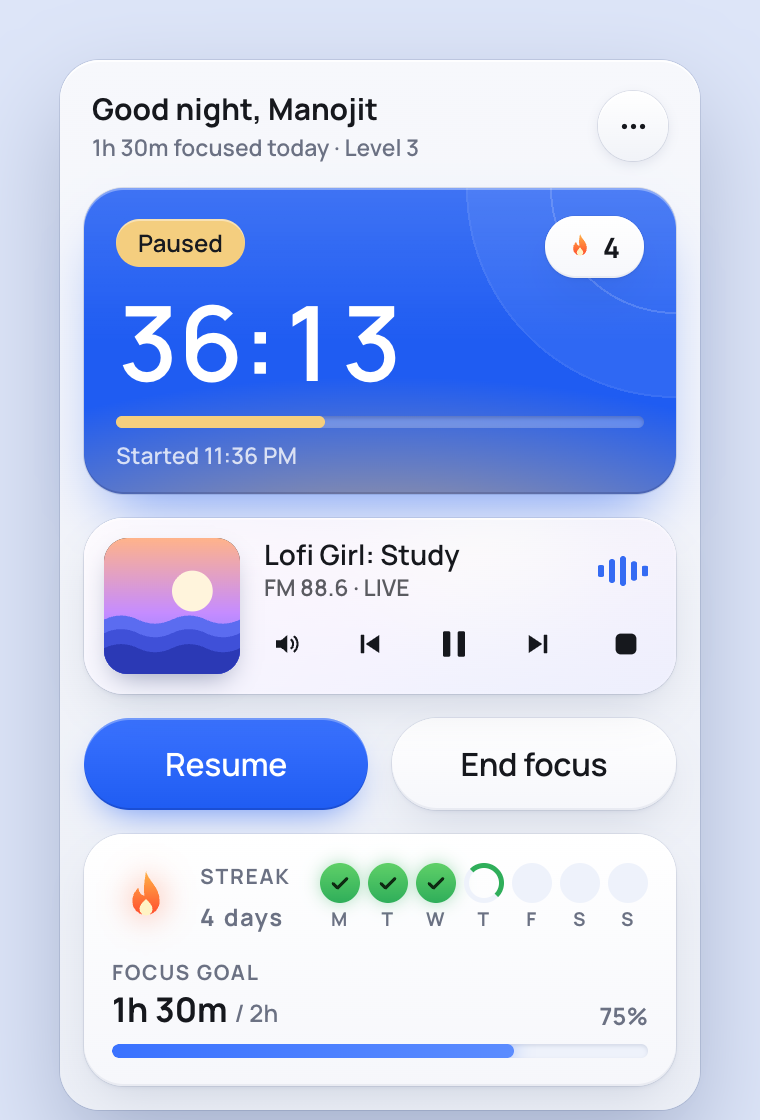
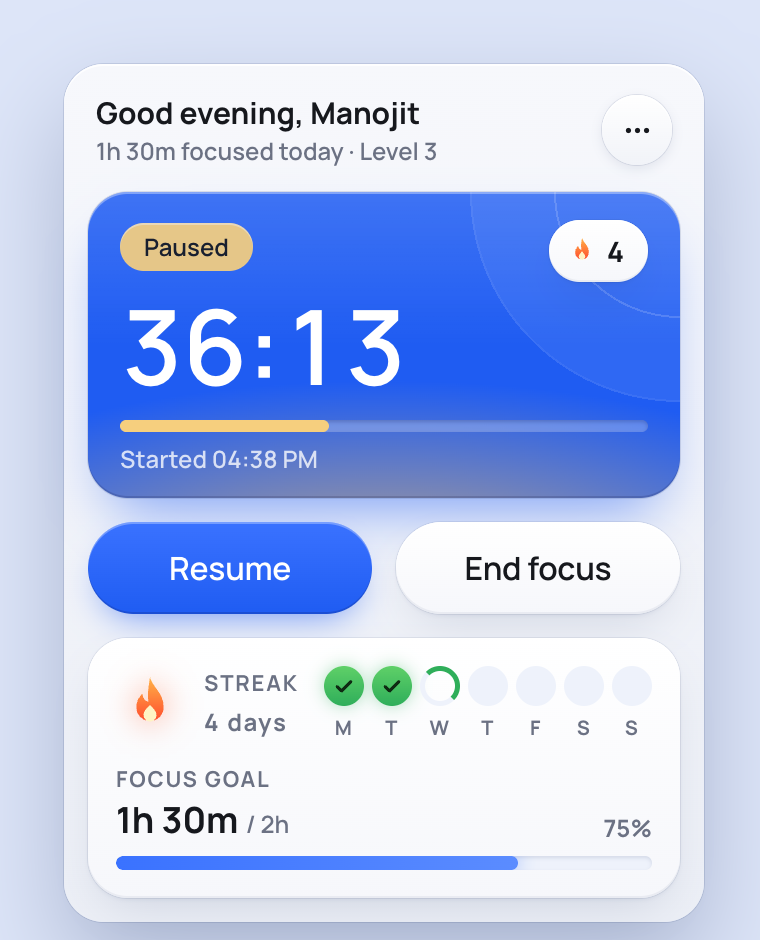
Docs: Tide no longer has a radio

diff --git a/docs/promo/shot.html b/docs/promo/shot.html
@@ -1,16 +1,10 @@
 <!doctype html>
-<!-- Screenshot helper: shows one page (?src=, relative to this folder) at ?w= x ?h=, with an original cover in the radio
-     instead of a station's artwork. Serve the project root and screenshot http://127.0.0.1:8765/docs/promo/shot.html?... -->
+<!-- Screenshot helper: shows one page (?src=, relative to this folder) at ?w= x ?h=. Serve the project root and screenshot http://127.0.0.1:8765/docs/promo/shot.html?... -->
 <meta charset="utf-8">
 <style>html,body{margin:0;overflow:hidden;background:transparent}iframe{border:0;display:block}</style>
 <iframe id="f"></iframe>
-<script src="cover.js"></script>
 <script>
 const q = new URLSearchParams(location.search), f = document.getElementById('f');
 f.style.width = (q.get('w') || 380) + 'px'; f.style.height = (q.get('h') || 600) + 'px';
 f.src = q.get('src');
-f.onload = () => {
-  const d = f.contentDocument, put = () => d.querySelectorAll('.cover, .bgart').forEach(e => e.style.backgroundImage = `url("${TIDE_COVER}")`);
-  put(); setInterval(put, 100);
-};
 </script>

diff --git a/CONTRIBUTING.md b/CONTRIBUTING.md
@@ -4,12 +4,12 @@
 
 | Path | What it is |
 |---|---|
-| `src/panel.html` | The menu bar panel: timer, radio, today's stats, and the end-of-session questions. Markup, styles and script in one file. |
+| `src/panel.html` | The menu bar panel: timer, today's stats, and the end-of-session questions. Markup, styles and script in one file. |
 | `src/dashboard.html` | The dashboard window: Stats, Sessions and Settings tabs. |
 | `src/game.js` | The game rules (daily and category goals, streak, levels, badges and their coin pictures), shared by the panel and the dashboard. The app adds it to both pages; in a browser preview they load it themselves. |
 | `src/island.html` | **The Island**: a card that drops from the notch at the top of the screen, blue in light mode and near-black in dark mode. It only displays what the panel sends and reports button presses back. |
 | `src/tide.css` | The shared design tokens and `t-` part styles used by all three pages. The preview pages link it; the app injects it before the page's own style. `build.sh` copies it into the app. |
-| `src/main.swift` | The native app: menu bar item, the panel window, the dashboard window, file storage, YouTube stream lookup, notifications, the global shortcut, open at login, the update check. |
+| `src/main.swift` | The native app: menu bar item, the panel window, the dashboard window, file storage, notifications, the global shortcut, open at login, the update check. |
 | `src/AppIcon.icns` | The app icon, made by `docs/icon/make-icns.sh` from `docs/icon/icon.html`. |
 | `build.sh` | Builds `build.noindex/Tide.app`, copying the pages, `game.js` and `tide.css` into it. `--install` copies it to `/Applications` and opens it; `--zip` makes the release zip. |
 | `src/fonts/` | Manrope, the bundled font, and its licence. |
@@ -17,21 +17,20 @@
 
 ## How it fits together
 
-- **The panel** is a borderless window with 20pt rounded corners (an `NSVisualEffectView` masked to the corners, with a `WKWebView` on top; the page paints its own background) placed under the menu bar item. It hides when it loses focus, like a menu, but is never closed, so the timer keeps running and the radio keeps playing.
+- **The panel** is a borderless window with 20pt rounded corners (an `NSVisualEffectView` masked to the corners, with a `WKWebView` on top; the page paints its own background) placed under the menu bar item. It hides when it loses focus, like a menu, but is never closed, so the timer keeps running.
 - **Keeping the hidden page alive:** WebKit suspends pages in hidden windows, which froze the timer. The app sets `inactiveSchedulingPolicy = .none`, holds a `ProcessInfo` activity against App Nap, and calls `tick()` every second as a backstop. Keep all three.
 - **Questions** (block done, break done, the topic, what next) are built by the panel page (`present()`, the `N` object). With the panel open they show in it; when it closes, the app shows the same question in the Island (`notice` message), and the Island's answer comes back through `noticeAction(id, topic)`.
-- **Both pages** are loaded with base URL `https://localhost/`, because YouTube's player refuses file pages. The app injects `window.__NATIVE` and the saved files (`window.__STORE`) before the page's script runs; the dashboard also gets `window.__SETTINGS` and `window.__TAB`.
+- **Both pages** are loaded with base URL `https://localhost/`, so the pages' storage stays in one place. The app injects `window.__NATIVE` and the saved files (`window.__STORE`) before the page's script runs; the dashboard also gets `window.__SETTINGS` and `window.__TAB`.
 - **Page to app:** `window.webkit.messageHandlers.native.postMessage({type, ...})`. Types:
   - `store`: save a key to disk. Log saves are mirrored to the other page via `__syncLogs`.
   - `resize` (panel or Island height), `showPanel`, `hidePanel`, `clock` (menu bar text), `notice` (show or clear the Island), `notify`.
-  - `resolve`: find a YouTube stream ID; answered with `ytResolved(i, id)`.
   - `openDashboard` (with a `tab`), `quit`, `copy`, `csv`.
   - Dashboard settings: `setLaunchAtLogin`, `chooseLogFolder`, `revealLogFolder`, `checkUpdates`; answered with `settingsChanged({...})`.
-- **App to page:** `start()` (the ⌃⌥Space shortcut), `tick()`, `panelVisible()`, `noticeAction()`, `ytResolved()`, `__syncLogs()`, `settingsChanged()`, `showTab()`.
+- **App to page:** `start()` (the ⌃⌥Space shortcut), `tick()`, `panelVisible()`, `noticeAction()`, `__syncLogs()`, `settingsChanged()`, `showTab()`.
 
 ## Timer rules
 
-- Look: light mode is a soft blue-grey; the clock card is bright blue (`#1f5cf2`) with rings in the corner; the state shows in its pill, progress line and a soft glow (none when ready, light blue focusing, amber paused, green on a break). Dark mode is near-black (`#161616`), the clock card black with a soft glow of the state's colour. The radio is a compact card: the station's cover art (its YouTube thumbnail) in a square on the left, the station name (click for the list) and controls beside it, with a blurred copy of the cover tinting the card. Volume is a button that slides a short slider open beside it, pushing the other controls right (scrolling over it works too). Cards use 20px corners, the same as the panel. The YouTube player only plays the sound: it stays a normal size but hidden, since YouTube won't play in a tiny player. Every gap between cards is 12px. Both use the same bevel: a lit top edge, a soft lower edge and a shadow below each card. All text uses Manrope (`--font`), except the log folder path (system monospace).
+- Look: light mode is a soft blue-grey; the clock card is bright blue (`#1f5cf2`) with rings in the corner; the state shows in its pill, progress line and a soft glow (none when ready, light blue focusing, amber paused, green on a break). Dark mode is near-black (`#161616`), the clock card black with a soft glow of the state's colour. Cards use 20px corners, the same as the panel. Every gap between cards is 12px. Both use the same bevel: a lit top edge, a soft lower edge and a shadow below each card. All text uses Manrope (`--font`), except the log folder path (system monospace).
 - Game (`game.js`), all worked out from the log: the **streak** counts days that reach the daily goal (`goalMin`, 120 by default); vacation days (`vacation` date ranges) are skipped, and today can still be closed. **Levels**: 1 XP per focused minute, level n needs 150·(n−1)² XP. **Badges**: focus hours (10 to 1,000), best streak (7 to 365) and specials; a new one, a new level or a reached goal shows in the Island once nothing else is asked (`checkUnlocks`, remembered in the state as `badgesSeen`, `levelSeen`, `goalSeen`).
 - **Categories** are in `tide.game` as `categories` (`{id, name, color, goalMin, per}`, where `per` is `'day'` or `'week'`) and `topicCats` (`{topicKey: [categoryId]}`, keyed by `Game.topicKey`). `Game.categoryProgress(logs, g, now)` counts a session toward every category its topic belongs to, by start time: daily goals count today, weekly goals count from Monday. `Game.PALETTE` (in `game.js`) holds the shared 10 colours for topics and categories. Category chips appear only in the panel's end-of-session question; answering from the Island saves the topic but leaves `topicCats` unchanged.
 - macOS notifications (the idle nudge, update notices) stay quiet from 10 PM to 5 AM (`quietHours`); a manual Check for Updates still answers.
@@ -44,16 +43,6 @@
 - Ending a Pomodoro early isn't logged; count-up under a minute isn't logged; breaks aren't logged. A finished break asks *Start Focus / +5 min*.
 - A session running when the app quits comes back paused, counting time up to the last save.
 - After 30 minutes idle (no timer, no break, no open question) the panel sends a `nudge`; the app posts a notification in the `NUDGE` category, whose **Let's start** action calls `startCountUp()`. It repeats every 30 minutes while idle.
-
-## Stations
-
-`BUILT_IN` (in `panel.html`) lists each built-in station with its channel, the words from its stream title and a last known video ID. At launch the app reads each channel's `/streams` page, finds the live stream whose title matches, and saves the current ID (`S.ytIds`, keyed by the built-in's original name). If a stream fails, it looks it up again and retries once. The player is created idle at launch, because a freshly created YouTube player starts muted.
-
-`tide.stations` (version 2) is one ordered list of built-in items (`builtIn: '<original name>'`, which can be renamed) and custom items (`kind: 'video' | 'playlist' | 'channel'`). Only the dashboard writes it. Both pages read it through `readStations()`, which upgrades version 1 (`{custom, builtIn}`). `readStations()` is copied in both files and must stay the same, and `BUILT_IN_NAMES` in the dashboard must match `BUILT_IN`. The list is never empty. The panel's station keys are `b:<name>` for built-ins and `c:<id>` for custom ones.
-
-Playing: a video loops when it ends. A playlist uses `loadPlaylist` and `setLoop(true)`. A channel is stored with its `UU…` uploads playlist (`'UU' + channelId.slice(2)`) and plays like a playlist, newest first. Adding a channel looks it up with `findChannel` in `main.swift`, which reads `itemprop="identifier"` and `og:title` from the channel page; only the dashboard can ask for it.
-
-Back and forward skip songs in a playlist or channel, and change station otherwise. You leave a playlist through the station list.
 
 ## Design
 
@@ -81,7 +70,7 @@ Back and forward skip songs in a playlist or channel, and change station otherwi
 - Corners use `--radius-sm` 6, `--radius-md` 10, `--radius-card` 14, `--radius-lg` 16, `--radius-xl` 20, `--radius-2xl` 24, `--radius-pill` 99 and `--radius-round` 50%.
 - Shared parts: `t-title`, `t-heading`, `t-body`, `t-small`, `t-caption`, `t-muted`; `t-card` and `t-panel-card`; `t-btn` and `t-primary`; `t-field`; `t-chip`; `t-switch`; `t-seg`; `t-toast`.
 - Use a token or a shared part; don't type sizes.
-- Page-local on purpose: the panel's 20px cards and 12px card gaps (and its 16px station list), the dashboard's 14px cards, the Island's 24px card and blue (`#1f5cf2`) / near-black (`#1c1c1c`) colours, and the panel's compact category chips. The dashboard's Settings chips are sized for the wide page; the 320px panel keeps its smaller chips.
+- Page-local on purpose: the panel's 20px cards and 12px card gaps, the dashboard's 14px cards, the Island's 24px card and blue (`#1f5cf2`) / near-black (`#1c1c1c`) colours, and the panel's compact category chips. The dashboard's Settings chips are sized for the wide page; the 320px panel keeps its smaller chips.
 - Manrope is bundled (`src/fonts/Manrope.ttf`, SIL Open Font License in `src/fonts/OFL.txt`, shipped with the app as `Manrope-OFL.txt`). Pages are loaded from a web address and can't read files, so the app adds the font as data at page start (`fontScript` in `main.swift`); the pages' own `@font-face` ("Manrope Preview") is only for the browser preview. Keep the panel short: it should fit under the menu bar on a small laptop screen.
 - Show a mockup (a PNG rendered with headless Chrome) before building a new screen.
 
@@ -97,9 +86,9 @@ Back and forward skip songs in a playlist or channel, and change station otherwi
   ```
   - `dashboard.html?demo` (two weeks of sample sessions), `&tab=sessions`, `&tab=settings`
 - In a browser, data is kept in localStorage, not in your real log.
-- After `./build.sh --install`, check the real app: the panel opens from the menu bar, a session logs, the radio keeps playing with the panel closed.
+- After `./build.sh --install`, check the real app: the panel opens from the menu bar, a session logs, and the timer keeps running with the panel closed.
 - README images: serve the project root (`python3 -m http.server 8765`) and render with headless Chrome.
-  - Screenshots go through `docs/promo/shot.html`, which shows one demo page at a set size and puts an original cover (`docs/promo/cover.js`) in the radio instead of a station's artwork. `&name=` sets the greeting's name. For example:
+  - Screenshots go through `docs/promo/shot.html`, which shows one demo page at a set size. `&name=` sets the greeting's name. For example:
 
     ```bash
     "/Applications/Google Chrome.app/Contents/MacOS/Google Chrome" --headless=new --hide-scrollbars --force-device-scale-factor=2 --blink-settings=preferredColorScheme=1 --window-size=380,560 --screenshot=docs/screenshots/panel-focus.png "http://127.0.0.1:8765/docs/promo/shot.html?w=380&h=560&src=..%2F..%2Fsrc%2Fpanel.html%3Fdemo%3Dfocus%26name%3DManojit"

diff --git a/README.md b/README.md
@@ -1,6 +1,6 @@
 # Tide
 
-A focus timer and lofi radio that lives in your Mac's menu bar. Click the time in the menu bar to open the timer: Pomodoro or count-up, a live lofi station, and your streak and daily goal at a glance. Every session is logged by topic, a dashboard shows where your time went, and a daily goal, streak and badges keep you coming back.
+A focus timer that lives in your Mac's menu bar. Click the time in the menu bar to open the timer: Pomodoro or count-up, and your streak and daily goal at a glance. Every session is logged by topic, a dashboard shows where your time went, and a daily goal, streak and badges keep you coming back.
 
 **[Download Tide for macOS](https://github.com/manojitnath/tide/releases/latest/download/Tide.zip)** (macOS 13 or later, see [Install](#install))
 
@@ -14,7 +14,7 @@ A focus timer and lofi radio that lives in your Mac's menu bar. Click the time i
 </p>
 
 <p>
-  <img src="docs/screenshots/panel-focus.png" width="32%" alt="The menu bar panel while focusing: the greeting, the clock card, the radio and the streak card">
+  <img src="docs/screenshots/panel-focus.png" width="32%" alt="The menu bar panel while focusing: the greeting, the clock card and the streak card">
   <img src="docs/screenshots/panel-paused.png" width="32%" alt="The panel when paused: Resume and End focus">
   <img src="docs/screenshots/panel-break.png" width="32%" alt="The panel in dark mode during a break">
 </p>
@@ -33,10 +33,10 @@ A focus timer and lofi radio that lives in your Mac's menu bar. Click the time i
   (System *notifications* in Notification Center are only used for the idle nudge below and app updates.)
 - **A nudge when you're idle:** after 30 minutes with no timer or break running, a macOS notification (with a sound) suggests starting a session. Hover over it and press **Let's start** to start counting up without opening the panel. Notifications use the **Alerts** style, so they stay on screen until you answer; you can change that in System Settings → Notifications → Tide. There are no notifications between 10 PM and 5 AM.
 - **Fair logging:** a Pomodoro you end early isn't counted, and neither is under a minute of counting up.
-- **Radio:** ten lofi live streams (Lofi Girl, Chillhop and others) in a compact player: the station's cover art, play/pause, previous and next, stop, a volume button that slides a slider open, and the station list when you click the station's name. It keeps playing when the panel is closed. In **Settings → Radio** you can add your own YouTube videos, playlists and channels, and reorder, rename or remove any station, built-in ones included. Back and forward skip songs in a playlist or channel, and change station otherwise.
 - **Study log:** every counted session is saved with its topic. Recent topics are one click away.
 - **Daily goal, streak and level:** the panel greets you and shows your streak (days you reach your daily goal, 2 hours by default) and today's progress. Every focused minute is 1 XP; levels go from Drop to King tide. Vacation mode pauses the streak.
 - **Categories and goals:** group topics into categories like Learning or Content (a topic can be in several), and set a daily or weekly goal for each in **Settings → Categories**. Progress shows in the **Progress** tab, and you can pick or change categories when you save a session. Category chips are only in the panel's end-of-session question, so answering from the Island saves the topic without changing its categories. The streak still depends only on the daily focus goal.
+- **Music** isn't built in: play it from any music app alongside Tide.
 - **Badges:** 16 to unlock for focus hours, streaks and a few specials, in the **Progress** tab of the dashboard. Hover over one to see what it's for.
 - **Dashboard:** focus time, sessions, streak and top topic for today, 7 days, 30 to 360 days or a custom date range; a focused-time chart; time by topic; the hours you focus best; and a full session list you can tidy up: edit a session's topic, times or focus time (for when you forgot to stop the timer), delete it, or **add** one you did without the timer. Export to CSV, or copy today's hours.
 - **Shortcut:** ⌃⌥Space (Control-Option-Space) starts or pauses the timer from any app.
@@ -67,15 +67,10 @@ Tide checks for a new release when it opens and once a day, and tells you with a
 Everything is in `~/Library/Application Support/Tide/` (the app was called Focus MN before; on first launch Tide copies your data from the old `Focus MN` folder and leaves that folder as a backup):
 
 - `Study Log.json`: your sessions
-- `studyradio.state.json`: timer mode, station, volume
-- `tide.stations.json`: your station list
+- `studyradio.state.json`: timer mode and settings
 - `tide.game.json`: daily goal, vacation mode, categories and goals
 
 To keep the log somewhere else, such as a synced notes folder, choose a folder in **Settings → Your log**. Your current log is copied there if the folder doesn't have one yet.
-
-## About the YouTube streams
-
-The radio plays public YouTube live streams through YouTube's official embedded player, shown small as the station art, and finds each stream's current ID by reading the channel's public Live page. Your own stations play the videos, playlists or channel uploads you add through the same player; when you add a channel, the app reads its public page once to find its ID. It's a personal project, not affiliated with YouTube or the channels. The small player doesn't follow YouTube's size guidelines, and the stream lookup can break when YouTube changes its pages. All music belongs to its creators.
 
 ## Build from source
 

diff --git a/CLAUDE.md b/CLAUDE.md
@@ -1,6 +1,6 @@
 # Tide: notes for Claude Code
 
-A focus timer and lofi radio in the macOS menu bar. How it fits together, the timer rules and testing are in **`CONTRIBUTING.md`**: read it before changing anything.
+A focus timer in the macOS menu bar. How it fits together, the timer rules and testing are in **`CONTRIBUTING.md`**: read it before changing anything.
 
 ## Build and run
 - `./build.sh --install` builds `build.noindex/Tide.app`, copies it to `/Applications` and opens it. `--zip` also makes the release zip.
@@ -12,8 +12,8 @@ A focus timer and lofi radio in the macOS menu bar. How it fits together, the ti
 - User data lives in `~/Library/Application Support/Tide/` (`Study Log.json`, `studyradio.state.json`, `tide.game.json`). Never overwrite it in tests; back it up first and restore it after.
 
 ## Rules from the owner
-- Keep it simple: a focus timer and Pomodoro with lofi radio. No skins. Game features stay quiet (a daily goal, streak, levels, badges), shown in one panel card and the Progress tab.
-- Out of scope: bedtime, sleep and habit tracking. Those belong to a separate accountability app, if it gets built.
+- Keep it simple: a focus timer and Pomodoro. No skins. Game features stay quiet (a daily goal, streak, levels, badges), shown in one panel card and the Progress tab.
+- Out of scope: bedtime, sleep and habit tracking. Those belong to a separate accountability app, if it gets built. Music: use a separate app.
 - Font: Manrope (bundled in `src/fonts/`) for all text. Light and dark mode, short and clear text.
 - Use the shared tokens and parts in `src/tide.css`; no hand-typed sizes, colours, spacing or corners.
 - Show a PNG mockup before building any new screen.
